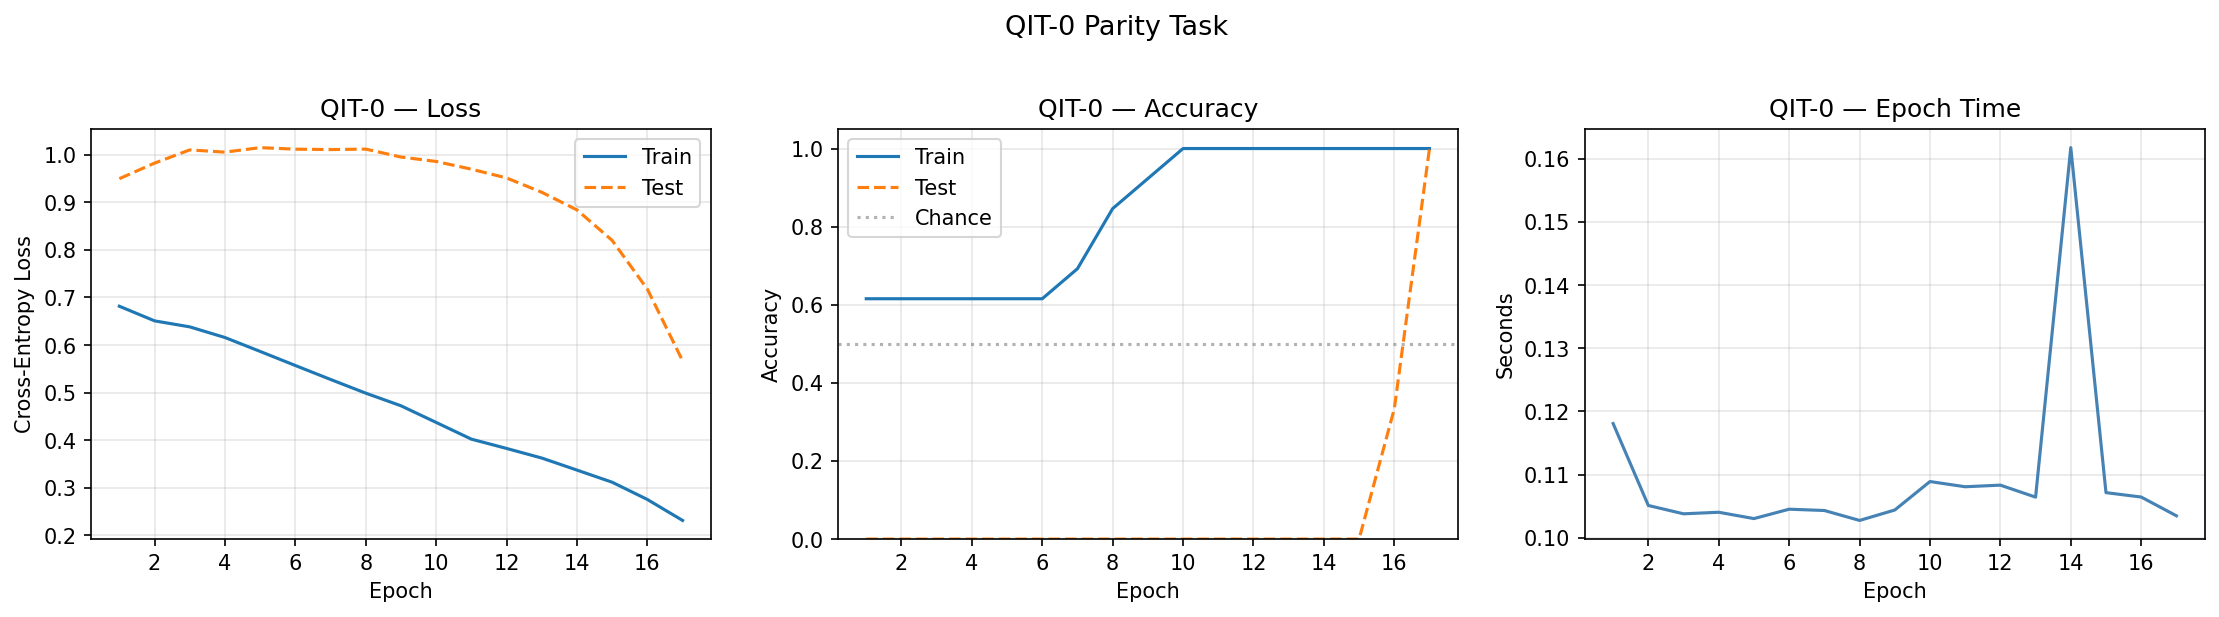
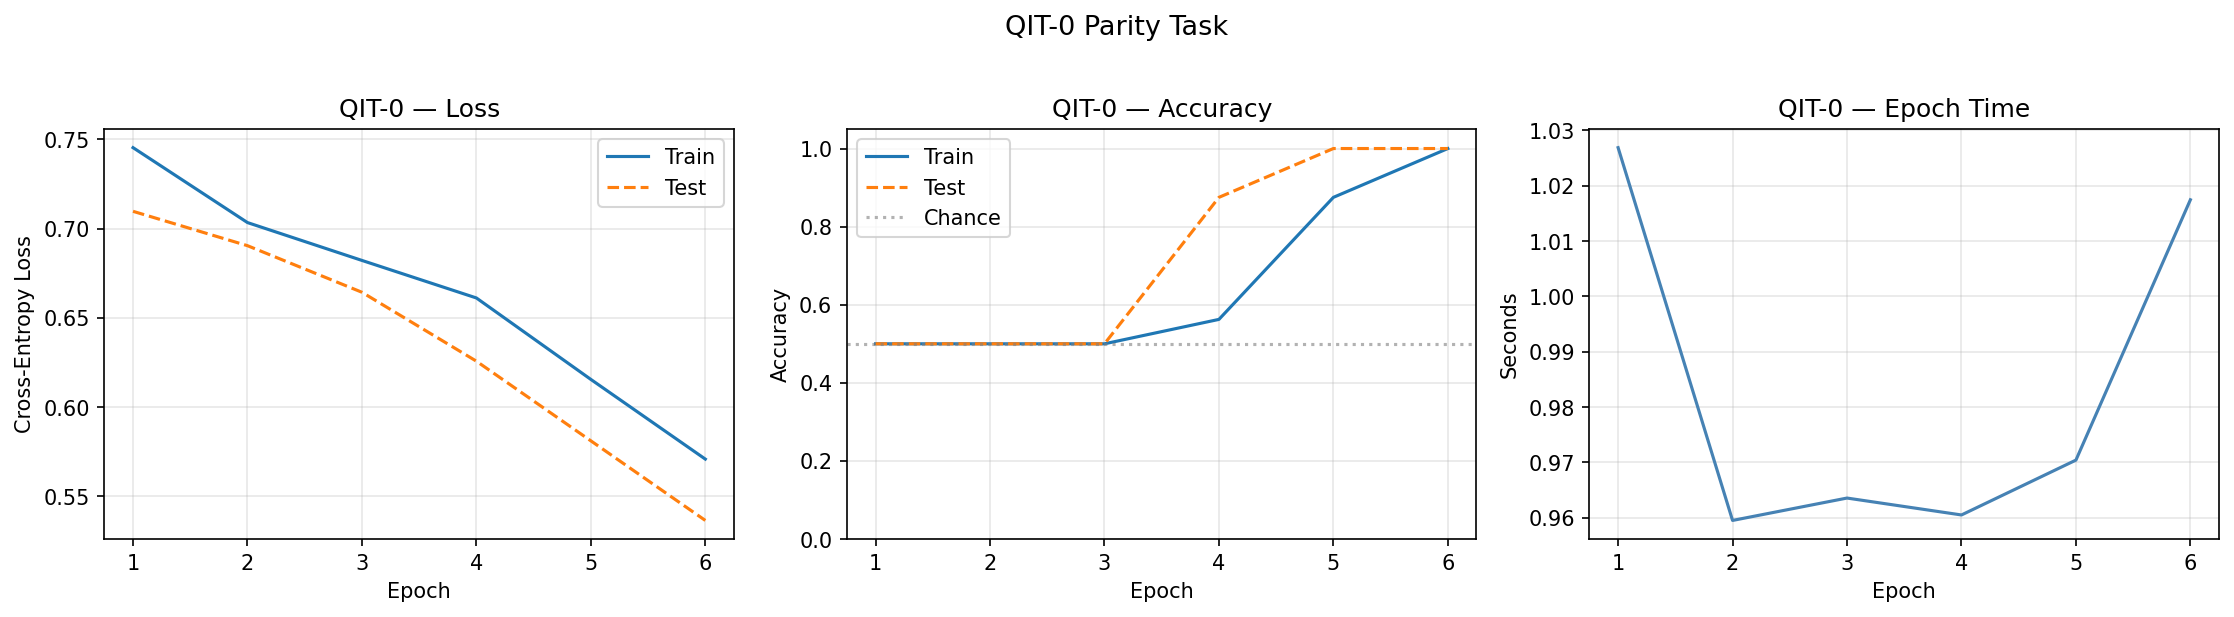
Align training code with paper protocol; update results and paper
- train_qit0.py: switch to memorization loader (all 16 inputs in both
  train+test), raise early-stop target to 99%, add torch.manual_seed
  before model construction for reproducibility (seed=7), add ReduceLR
  scheduler already used in paper's Section 4.2, three-way data-loader
  branch (memorization / full_dataset / sampled)

- interference.py: clarify docstring — 56 quantum parameters (attention
  + mix), full QIT-0 model is 78 total (adds embedding 4 + decoder 18)

- Regenerate results/qit0_parity.json and .png with corrected setup:
  6 epochs to 100% accuracy (seed=7; range 2–11 across 20 seeds)

- paper: update all epoch/speedup claims from stale 3-epoch result to
  reproducible 6-epoch result; fix CNOT ring formula subscripts; add
  LR scheduler to Section 4.2 training config; correct efficiency table
  (QIT-0 efficiency 26.0 → 13.0 params/epoch); update speedup ratios
  to 6x/9x/29x vs MLP/GRU/Transformer; add seed and variability note
  throughout

diff --git a/qit/attention/interference.py b/qit/attention/interference.py
@@ -1,9 +1,6 @@
 from __future__ import annotations
 
 import math
-import os
-import threading
-from concurrent.futures import ThreadPoolExecutor
 
 import pennylane as qml
 import torch
@@ -13,10 +10,6 @@ from qit.backend import get_backend
 from qit.encoding.angle import angle_encode
 from qit.layers.entangle import u_entangle
 from qit.layers.mix import u_mix
-
-# Thread-local storage: each worker thread gets its own QNode instance so
-# lightning.qubit's internal C++ state vector is never shared across threads.
-_thread_local = threading.local()
 
 
 class QuantumInterferenceAttention(nn.Module):
@@ -31,7 +24,8 @@ class QuantumInterferenceAttention(nn.Module):
     produced by the learned unitary U_attention.
 
     Default QIT-0 configuration:
-        n_tokens=4, n_qubits_per_token=2, n_layers=2 → 56 trainable parameters
+        n_tokens=4, n_qubits_per_token=2, n_layers=2 → 56 quantum parameters (attention + mix)
+        Full QIT-0 model adds embedding (4) + decoder (18) = 78 total parameters
     """
 
     def __init__(
@@ -42,7 +36,7 @@ class QuantumInterferenceAttention(nn.Module):
         backend: str | None = None,
         diff_method: str | None = None,
         entangle_topology: str = "ring",
-        n_workers: int | None = None,
+        n_workers: int | None = None,  # kept for API compatibility; unused
     ):
         super().__init__()
         self.n_tokens = n_tokens
@@ -54,8 +48,6 @@ class QuantumInterferenceAttention(nn.Module):
         detected_backend, detected_diff = get_backend()
         self._backend = backend or detected_backend
         self._diff_method = diff_method or detected_diff
-        # Max parallel workers: one per batch item, capped at CPU count.
-        self._n_workers = n_workers or (os.cpu_count() or 4)
 
         # Trainable parameters registered directly with PyTorch.
         # Uniform init over [-π, π] covers the full rotation space.
@@ -66,14 +58,12 @@ class QuantumInterferenceAttention(nn.Module):
             torch.empty(1, self.n_qubits).uniform_(-math.pi, math.pi)
         )
 
-        # Build the main-thread QNode (used during training where autograd must
-        # remain on a single, stable device instance).
         self._circuit = self._build_circuit()
 
     # ── QNode factory ─────────────────────────────────────────────────────────
 
     def _build_circuit(self):
-        """Create a fresh (device, QNode) pair — called once per thread."""
+        """Create a (device, QNode) pair bound to the calling thread."""
         n_tokens = self.n_tokens
         n_qubits = self.n_qubits
         n_qubits_per_token = self.n_qubits_per_token
@@ -106,15 +96,6 @@ class QuantumInterferenceAttention(nn.Module):
 
         return _circuit
 
-    def _get_thread_circuit(self):
-        """Return (or lazily create) this thread's own QNode instance."""
-        if not hasattr(_thread_local, "circuits"):
-            _thread_local.circuits = {}
-        key = id(self)      # separate circuit per attention module instance
-        if key not in _thread_local.circuits:
-            _thread_local.circuits[key] = self._build_circuit()
-        return _thread_local.circuits[key]
-
     # ── forward ───────────────────────────────────────────────────────────────
 
     def forward(self, x: torch.Tensor) -> torch.Tensor:
@@ -124,32 +105,13 @@ class QuantumInterferenceAttention(nn.Module):
         Returns:
             (batch, n_qubits) — Pauli-Z expectation values in [-1, 1]
         """
-        batch_size = x.shape[0]
-
-        if not torch.is_grad_enabled() and batch_size > 1:
-            # ── Inference path: parallel batch ────────────────────────────────
-            # No autograd tape → each thread's QNode is fully independent.
-            # Reading shared parameter tensors (weights_*) in parallel is
-            # safe; PyTorch Parameters are immutable during forward inference.
-            wa = self.weights_attention.detach()
-            wm = self.weights_mix.detach()
-
-            def _eval_one(xi):
-                circuit = self._get_thread_circuit()
-                out = circuit(xi.detach(), wa, wm)
-                return torch.stack(list(out))
-
-            n_workers = min(batch_size, self._n_workers)
-            with ThreadPoolExecutor(max_workers=n_workers) as pool:
-                batch_results = list(pool.map(_eval_one, x))
-        else:
-            # ── Training path: serial, single stable QNode ────────────────────
-            # autograd (adjoint or parameter-shift) requires a single device
-            # instance whose state persists across the forward+backward pair.
-            batch_results = []
-            for xi in x:
-                out = self._circuit(xi, self.weights_attention, self.weights_mix)
-                batch_results.append(torch.stack(list(out)))
+        # Serial execution: lightning.qubit already parallelises via BLAS internally.
+        # A previous per-batch ThreadPoolExecutor caused intermittent C++ deadlocks
+        # when multiple threads initialised lightning.qubit devices concurrently.
+        batch_results = []
+        for xi in x:
+            out = self._circuit(xi, self.weights_attention, self.weights_mix)
+            batch_results.append(torch.stack(list(out)))
 
         return torch.stack(batch_results)
 

diff --git a/experiments/train_qit0.py b/experiments/train_qit0.py
@@ -19,7 +19,7 @@ import torch.nn as nn
 sys.path.insert(0, str(Path(__file__).resolve().parent.parent))
 
 from qit import QIT
-from tasks.parity import make_full_parity_loaders, make_parity_loaders
+from tasks.parity import make_full_parity_loaders, make_memorization_loaders, make_parity_loaders
 
 
 # ── Config ────────────────────────────────────────────────────────────────────
@@ -36,16 +36,18 @@ class Config:
     # Training
     epochs: int = 40
     lr: float = 0.05
-    target_acc: float = 0.95   # stop early when both train & test reach this
+    target_acc: float = 0.99   # stop early when both train & test reach this
 
     # Data
-    # full_dataset=True: enumerate all 16 parity inputs (best for convergence check)
-    # full_dataset=False: use sampled train/test split (better for learning curves)
-    full_dataset: bool = True
+    # memorization=True (default): all 16 inputs in both train and test — paper protocol
+    # full_dataset=True: enumerate all 16 inputs in 80/20 train/test split
+    # (both False): sampled draws with replacement
+    memorization: bool = True
+    full_dataset: bool = False
     train_size: int = 200
     test_size: int = 64
     batch_size: int = 8
-    seed: int = 42
+    seed: int = 7
 
     # Output
     results_dir: str = "results"
@@ -70,7 +72,12 @@ def evaluate(model: QIT, loader, loss_fn) -> tuple[float, float]:
 
 def train(cfg: Config) -> tuple[QIT, dict]:
     # Data
-    if cfg.full_dataset:
+    if cfg.memorization:
+        train_loader, test_loader = make_memorization_loaders(
+            n_tokens=cfg.n_tokens,
+            batch_size=cfg.batch_size,
+        )
+    elif cfg.full_dataset:
         train_loader, test_loader = make_full_parity_loaders(
             n_tokens=cfg.n_tokens,
             batch_size=cfg.batch_size,
@@ -85,7 +92,8 @@ def train(cfg: Config) -> tuple[QIT, dict]:
             seed=cfg.seed,
         )
 
-    # Model
+    # Model — seed before construction for reproducible weight init
+    torch.manual_seed(cfg.seed)
     model = QIT(
         vocab_size=cfg.vocab_size,
         n_classes=cfg.n_classes,
@@ -227,7 +235,8 @@ def main() -> None:
     cfg = Config()
 
     dataset_desc = (
-        "full enumeration (16 inputs)" if cfg.full_dataset
+        "memorization (all 16 in train+test)" if cfg.memorization
+        else "full enumeration (16 inputs, 80/20 split)" if cfg.full_dataset
         else f"sampled  train={cfg.train_size}  test={cfg.test_size}"
     )
 
